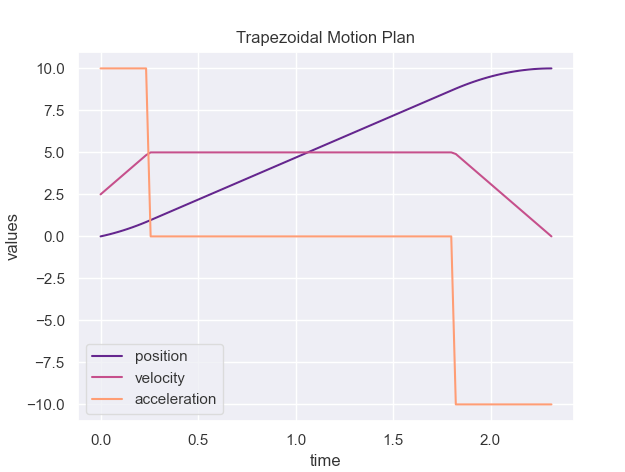
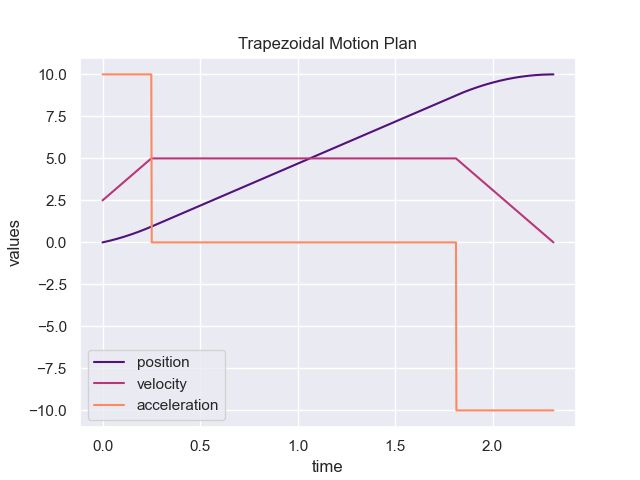
Prelim notebook + updated trapezoidal img for higher res

diff --git a/examples/run_trapezoidal.py b/examples/run_trapezoidal.py
@@ -11,7 +11,7 @@ from engine.trapezoidal import Trapezoidal
 # visualization params
 sns.set_theme(style="darkgrid")
 sns.color_palette("crest", as_cmap=True)
-sampling_res = 100
+sampling_res = 1000
 
 # initialize and compute jerk limited trajectory
 tp_traj = Trapezoidal(0, 10, 2.5, 0, 5, 10)
